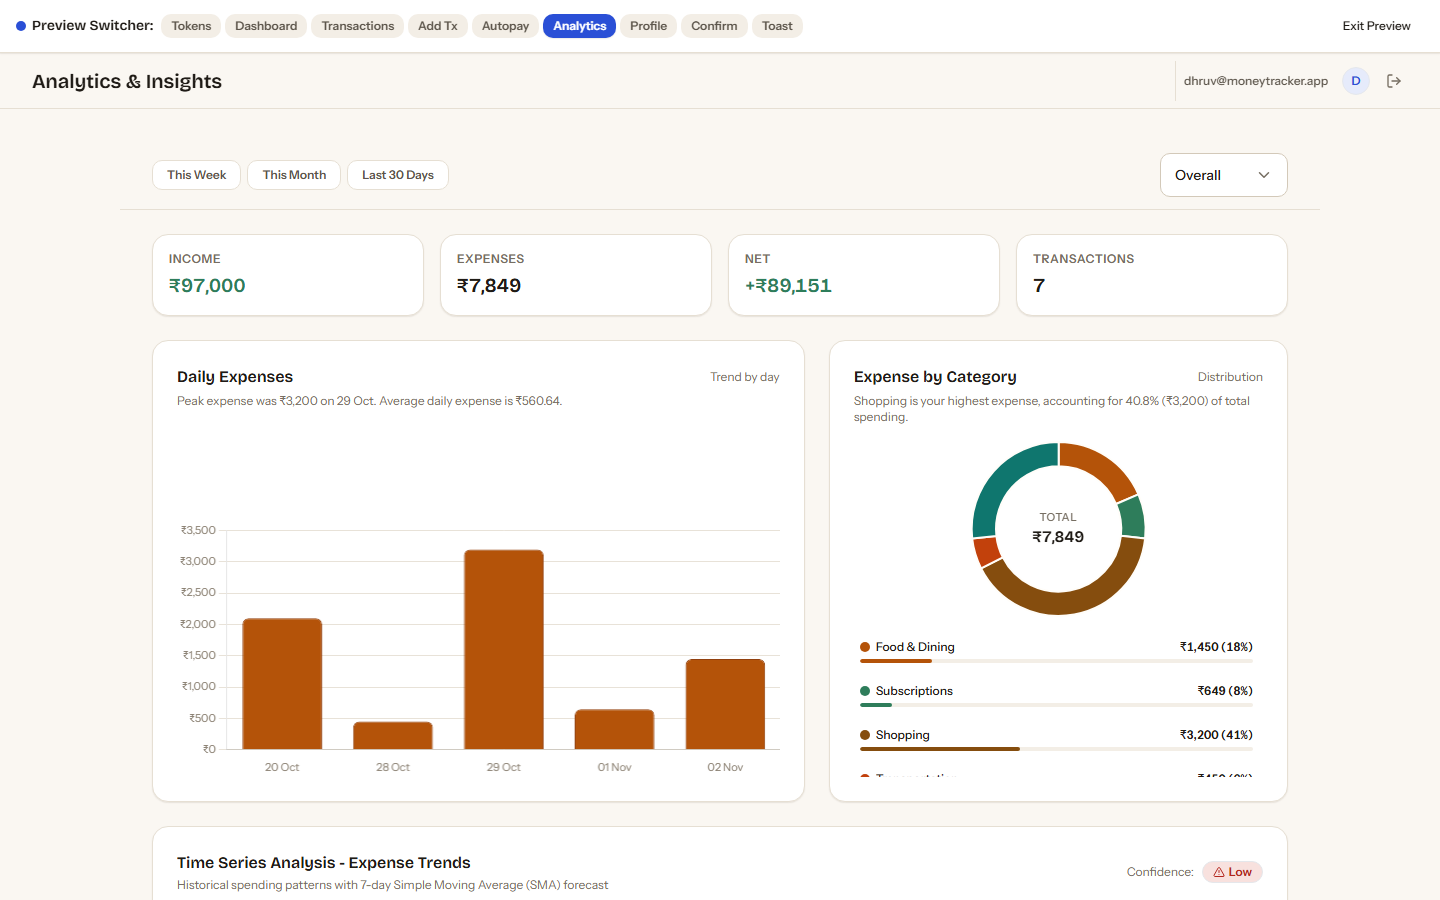
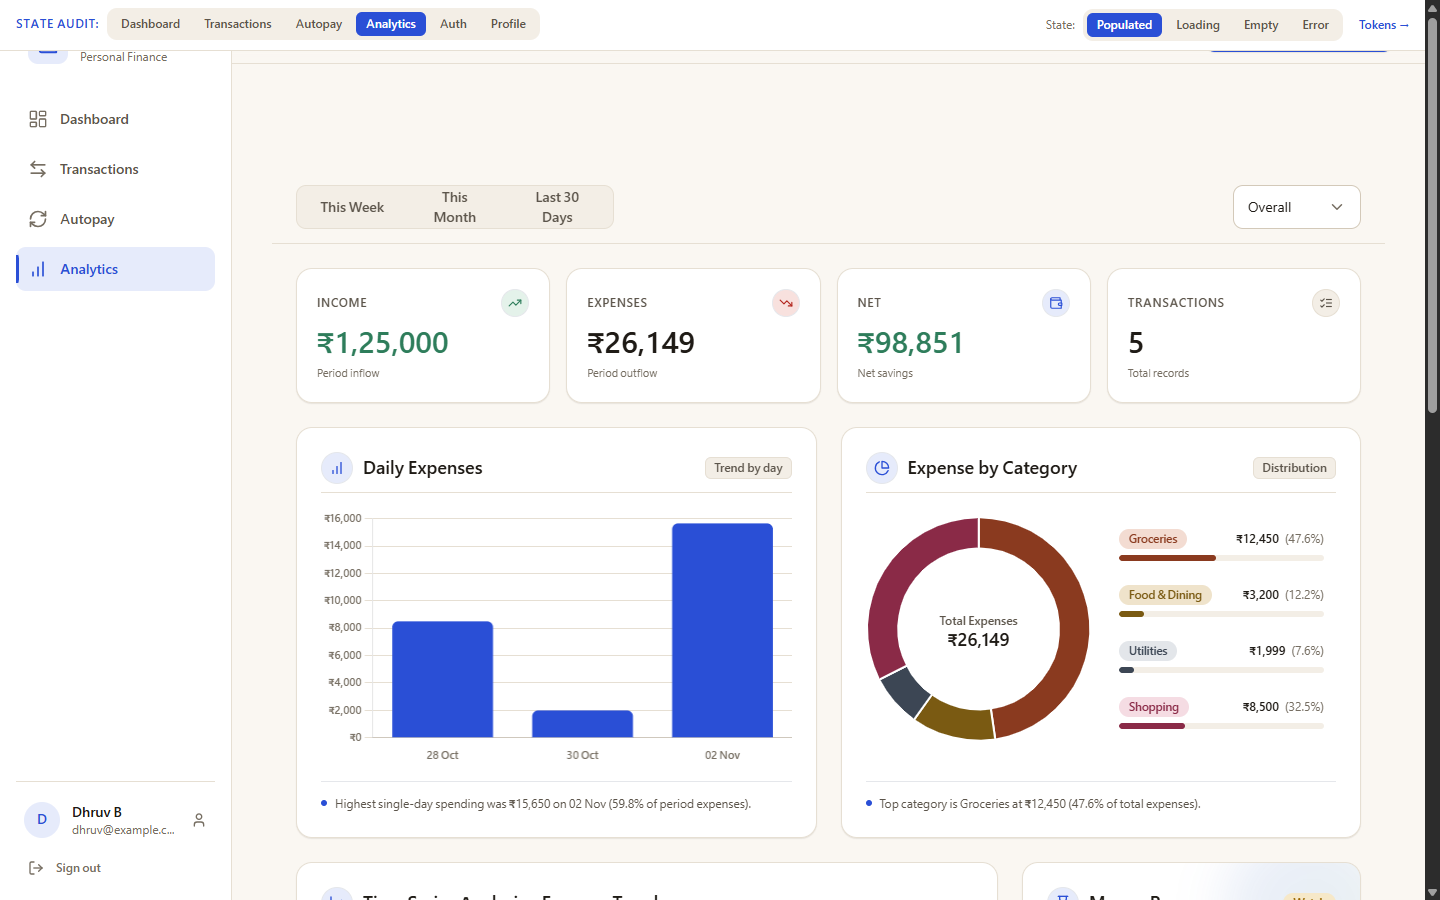
feat(analytics): elevate analytics UI with Skiper-style metric capsules, interactive chart layouts, and responsive mobile architecture

diff --git a/apps/web/src/components/analytics/AnalyticsTab.tsx b/apps/web/src/components/analytics/AnalyticsTab.tsx
@@ -41,6 +41,10 @@ import {
   AreaChartIcon,
   HourglassIcon,
   FlameIcon,
+  TrendingUpIcon,
+  TrendingDownIcon,
+  WalletIcon,
+  ListCheckIcon,
 } from '../icons';
 
 const PRESET_OPTIONS: SegmentedOption[] = [
@@ -607,37 +611,73 @@ export function AnalyticsTab() {
       ) : (
         <>
           {/* Summary Metric Cards */}
-          <div className="grid grid-cols-2 lg:grid-cols-4 gap-4" id="analyticsSummaryGrid">
-            <Card className="p-4 space-y-1">
-              <span className="text-xs font-medium text-ink-2 uppercase tracking-wide">Income</span>
-              <div id="analyticsIncome" className="text-xl sm:text-2xl font-semibold text-income tabular-nums">
-                ₹{formatIndianGrouping(summary.income)}
+          <div className="grid grid-cols-2 lg:grid-cols-4 gap-3.5 sm:gap-4" id="analyticsSummaryGrid">
+            {/* 1. Income */}
+            <Card className="p-4 sm:p-5 bg-surface border border-line rounded-card shadow-1 transition-all duration-base hover:border-line-strong hover:shadow-2 flex flex-col justify-between">
+              <div className="flex items-center justify-between mb-2">
+                <span className="text-xs font-semibold text-ink-2 uppercase tracking-wider">Income</span>
+                <div className="w-7 h-7 rounded-full bg-income-tint text-income flex items-center justify-center shrink-0 border border-income/20">
+                  <TrendingUpIcon size={14} />
+                </div>
+              </div>
+              <div>
+                <div id="analyticsIncome" className="font-display text-2xl sm:text-3xl font-semibold text-income tabular-nums">
+                  ₹{formatIndianGrouping(summary.income)}
+                </div>
+                <span className="text-[11px] text-ink-3 mt-1 block font-sans">Period inflow</span>
               </div>
             </Card>
 
-            <Card className="p-4 space-y-1">
-              <span className="text-xs font-medium text-ink-2 uppercase tracking-wide">Expenses</span>
-              <div id="analyticsExpenses" className="text-xl sm:text-2xl font-semibold text-ink tabular-nums">
-                ₹{formatIndianGrouping(summary.expenses)}
+            {/* 2. Expenses */}
+            <Card className="p-4 sm:p-5 bg-surface border border-line rounded-card shadow-1 transition-all duration-base hover:border-line-strong hover:shadow-2 flex flex-col justify-between">
+              <div className="flex items-center justify-between mb-2">
+                <span className="text-xs font-semibold text-ink-2 uppercase tracking-wider">Expenses</span>
+                <div className="w-7 h-7 rounded-full bg-danger-tint text-danger flex items-center justify-center shrink-0 border border-danger/20">
+                  <TrendingDownIcon size={14} />
+                </div>
+              </div>
+              <div>
+                <div id="analyticsExpenses" className="font-display text-2xl sm:text-3xl font-semibold text-ink tabular-nums">
+                  ₹{formatIndianGrouping(summary.expenses)}
+                </div>
+                <span className="text-[11px] text-ink-3 mt-1 block font-sans">Period outflow</span>
               </div>
             </Card>
 
-            <Card className="p-4 space-y-1">
-              <span className="text-xs font-medium text-ink-2 uppercase tracking-wide">Net</span>
-              <div
-                id="analyticsNet"
-                className={`text-xl sm:text-2xl font-semibold tabular-nums ${
-                  summary.net >= 0 ? 'text-income' : 'text-danger'
-                }`}
-              >
-                ₹{formatIndianGrouping(summary.net)}
+            {/* 3. Net */}
+            <Card className="p-4 sm:p-5 bg-surface border border-line rounded-card shadow-1 transition-all duration-base hover:border-line-strong hover:shadow-2 flex flex-col justify-between">
+              <div className="flex items-center justify-between mb-2">
+                <span className="text-xs font-semibold text-ink-2 uppercase tracking-wider">Net</span>
+                <div className="w-7 h-7 rounded-full bg-accent-tint text-accent flex items-center justify-center shrink-0 border border-accent/20">
+                  <WalletIcon size={14} />
+                </div>
+              </div>
+              <div>
+                <div
+                  id="analyticsNet"
+                  className={`font-display text-2xl sm:text-3xl font-semibold tabular-nums ${
+                    summary.net >= 0 ? 'text-income' : 'text-danger'
+                  }`}
+                >
+                  ₹{formatIndianGrouping(summary.net)}
+                </div>
+                <span className="text-[11px] text-ink-3 mt-1 block font-sans">Net savings</span>
               </div>
             </Card>
 
-            <Card className="p-4 space-y-1">
-              <span className="text-xs font-medium text-ink-2 uppercase tracking-wide">Transactions</span>
-              <div id="analyticsCount" className="text-xl sm:text-2xl font-semibold text-ink tabular-nums">
-                {summary.count}
+            {/* 4. Transactions */}
+            <Card className="p-4 sm:p-5 bg-surface border border-line rounded-card shadow-1 transition-all duration-base hover:border-line-strong hover:shadow-2 flex flex-col justify-between">
+              <div className="flex items-center justify-between mb-2">
+                <span className="text-xs font-semibold text-ink-2 uppercase tracking-wider">Transactions</span>
+                <div className="w-7 h-7 rounded-full bg-surface-2 text-ink-2 flex items-center justify-center shrink-0 border border-line">
+                  <ListCheckIcon size={14} />
+                </div>
+              </div>
+              <div>
+                <div id="analyticsCount" className="font-display text-2xl sm:text-3xl font-semibold text-ink tabular-nums">
+                  {summary.count}
+                </div>
+                <span className="text-[11px] text-ink-3 mt-1 block font-sans">Total records</span>
               </div>
             </Card>
           </div>
@@ -645,13 +685,18 @@ export function AnalyticsTab() {
           {/* Grid: Daily Expenses & Category Doughnut */}
           <div className="grid grid-cols-1 lg:grid-cols-2 gap-6">
             {/* 4. Daily Expenses Card */}
-            <Card className="p-5 flex flex-col justify-between">
+            <Card className="p-5 sm:p-6 bg-surface border border-line rounded-card shadow-1 transition-all duration-base hover:border-line-strong hover:shadow-2 flex flex-col justify-between">
               <div>
-                <div className="flex items-center gap-2 mb-4">
-                  <span className="text-accent">
-                    <BarChartIcon size={20} />
+                <div className="flex items-center justify-between gap-2 mb-4 pb-2 border-b border-line">
+                  <div className="flex items-center gap-2.5">
+                    <div className="w-8 h-8 rounded-full bg-accent-tint text-accent flex items-center justify-center shrink-0 border border-accent/20">
+                      <BarChartIcon size={16} />
+                    </div>
+                    <h3 className="font-display font-semibold text-ink text-base sm:text-lg">Daily Expenses</h3>
+                  </div>
+                  <span className="px-2 py-0.5 rounded-chip text-xs font-medium bg-surface-2 text-ink-2 border border-line">
+                    Trend by day
                   </span>
-                  <h3 className="font-sans font-semibold text-ink text-base">Daily Expenses</h3>
                 </div>
 
                 {dailyData.labels.length === 0 ? (
@@ -688,19 +733,25 @@ export function AnalyticsTab() {
               </div>
 
               {/* 1 sentence underneath */}
-              <p className="mt-4 pt-3 border-t border-line text-xs text-ink-2 font-sans leading-relaxed">
-                {getDailyExpensesInsight(dailyData)}
-              </p>
+              <div className="mt-4 pt-3 border-t border-line/70 flex items-start gap-2 text-xs text-ink-2 font-sans leading-relaxed">
+                <span className="w-1.5 h-1.5 rounded-full bg-accent shrink-0 mt-1.5" />
+                <p>{getDailyExpensesInsight(dailyData)}</p>
+              </div>
             </Card>
 
             {/* 5. Category Doughnut Card with Linked Legend */}
-            <Card className="p-5 flex flex-col justify-between">
+            <Card className="p-5 sm:p-6 bg-surface border border-line rounded-card shadow-1 transition-all duration-base hover:border-line-strong hover:shadow-2 flex flex-col justify-between">
               <div>
-                <div className="flex items-center gap-2 mb-4">
-                  <span className="text-accent">
-                    <PieChartIcon size={20} />
+                <div className="flex items-center justify-between gap-2 mb-4 pb-2 border-b border-line">
+                  <div className="flex items-center gap-2.5">
+                    <div className="w-8 h-8 rounded-full bg-accent-tint text-accent flex items-center justify-center shrink-0 border border-accent/20">
+                      <PieChartIcon size={16} />
+                    </div>
+                    <h3 className="font-display font-semibold text-ink text-base sm:text-lg">Expense by Category</h3>
+                  </div>
+                  <span className="px-2 py-0.5 rounded-chip text-xs font-medium bg-surface-2 text-ink-2 border border-line">
+                    Distribution
                   </span>
-                  <h3 className="font-sans font-semibold text-ink text-base">Expense by Category</h3>
                 </div>
 
                 {categoryData.labels.length === 0 ? (
@@ -815,23 +866,24 @@ export function AnalyticsTab() {
               </div>
 
               {/* 1 sentence underneath */}
-              <p className="mt-4 pt-3 border-t border-line text-xs text-ink-2 font-sans leading-relaxed">
-                {getCategoryExpensesInsight(categoryData)}
-              </p>
+              <div className="mt-4 pt-3 border-t border-line/70 flex items-start gap-2 text-xs text-ink-2 font-sans leading-relaxed">
+                <span className="w-1.5 h-1.5 rounded-full bg-accent shrink-0 mt-1.5" />
+                <p>{getCategoryExpensesInsight(categoryData)}</p>
+              </div>
             </Card>
           </div>
 
           {/* Grid: 6. Forecast & 7. Money Runway */}
           <div className="grid grid-cols-1 lg:grid-cols-3 gap-6">
             {/* 6. Forecast Card */}
-            <Card className="lg:col-span-2 p-5 flex flex-col justify-between">
+            <Card className="lg:col-span-2 p-5 sm:p-6 bg-surface border border-line rounded-card shadow-1 transition-all duration-base hover:border-line-strong hover:shadow-2 flex flex-col justify-between">
               <div>
-                <div className="flex items-center justify-between flex-wrap gap-2 mb-4">
-                  <div className="flex items-center gap-2">
-                    <span className="text-accent">
-                      <AreaChartIcon size={20} />
-                    </span>
-                    <h3 className="font-sans font-semibold text-ink text-base">
+                <div className="flex items-center justify-between flex-wrap gap-2 mb-4 pb-2 border-b border-line">
+                  <div className="flex items-center gap-2.5">
+                    <div className="w-8 h-8 rounded-full bg-accent-tint text-accent flex items-center justify-center shrink-0 border border-accent/20">
+                      <AreaChartIcon size={16} />
+                    </div>
+                    <h3 className="font-display font-semibold text-ink text-base sm:text-lg">
                       Time Series Analysis - Expense Trends
                     </h3>
                   </div>
@@ -845,6 +897,7 @@ export function AnalyticsTab() {
                             ? 'warning'
                             : 'danger'
                       }
+                      className="text-xs"
                     >
                       Confidence: {forecast.confidence.toUpperCase()}
                     </Badge>
@@ -895,7 +948,7 @@ export function AnalyticsTab() {
                     {/* Stats Box */}
                     <div
                       id="timeSeriesStats"
-                      className="grid grid-cols-2 sm:grid-cols-4 gap-3 p-3 bg-surface-2 rounded-btn text-xs font-sans"
+                      className="grid grid-cols-2 sm:grid-cols-4 gap-3 p-3.5 bg-surface-2/70 border border-line/60 rounded-btn text-xs font-sans"
                     >
                       <div>
                         <span className="text-ink-3 block">Total Period</span>
@@ -923,20 +976,27 @@ export function AnalyticsTab() {
               </div>
 
               {/* 1 sentence underneath */}
-              <p className="mt-4 pt-3 border-t border-line text-xs text-ink-2 font-sans leading-relaxed">
-                {getForecastInsight(forecast)}
-              </p>
+              <div className="mt-4 pt-3 border-t border-line/70 flex items-start gap-2 text-xs text-ink-2 font-sans leading-relaxed">
+                <span className="w-1.5 h-1.5 rounded-full bg-accent shrink-0 mt-1.5" />
+                <p>{getForecastInsight(forecast)}</p>
+              </div>
             </Card>
 
             {/* 7. Money Runway Card */}
-            <Card className="p-5 flex flex-col justify-between">
-              <div>
-                <div className="flex items-center justify-between gap-2 mb-4">
-                  <div className="flex items-center gap-2">
-                    <span className="text-accent">
-                      <HourglassIcon size={20} />
-                    </span>
-                    <h3 className="font-sans font-semibold text-ink text-base">Money Runway</h3>
+            <Card className="relative overflow-hidden p-5 sm:p-6 bg-surface border border-line rounded-card shadow-1 transition-all duration-base hover:border-line-strong hover:shadow-2 flex flex-col justify-between">
+              {/* Decorative subtle aura background overlay */}
+              <div
+                className="absolute -top-10 -right-10 w-44 h-44 rounded-full pointer-events-none select-none opacity-10 bg-gradient-to-br from-accent to-income blur-xl"
+                aria-hidden="true"
+              />
+
+              <div className="relative z-10">
+                <div className="flex items-center justify-between gap-2 mb-4 pb-2 border-b border-line">
+                  <div className="flex items-center gap-2.5">
+                    <div className="w-8 h-8 rounded-full bg-accent-tint text-accent flex items-center justify-center shrink-0 border border-accent/20">
+                      <HourglassIcon size={16} />
+                    </div>
+                    <h3 className="font-display font-semibold text-ink text-base sm:text-lg">Money Runway</h3>
                   </div>
                   <Badge
                     variant={
@@ -948,6 +1008,7 @@ export function AnalyticsTab() {
                             ? 'warning'
                             : 'income'
                     }
+                    className="text-xs"
                   >
                     {runway.daysRemaining === Infinity
                       ? 'Sustainable'
@@ -960,10 +1021,10 @@ export function AnalyticsTab() {
                 </div>
 
                 {/* Days remaining large figure */}
-                <div className="my-6">
+                <div className="my-5">
                   <div className="flex items-baseline gap-2">
                     <span
-                      className={`font-display text-4xl sm:text-5xl font-semibold tabular-nums ${
+                      className={`font-display text-4xl sm:text-5xl font-semibold tabular-nums tracking-tight ${
                         runway.daysRemaining <= 7
                           ? 'text-danger'
                           : runway.daysRemaining <= 30
@@ -980,7 +1041,7 @@ export function AnalyticsTab() {
                 </div>
 
                 {/* Metrics list */}
-                <div className="space-y-3 pt-2 border-t border-line text-xs font-sans">
+                <div className="space-y-3 pt-3 border-t border-line text-xs font-sans">
                   <div className="flex items-center justify-between">
                     <span className="text-ink-2">Estimated Depletion</span>
                     <span className="font-semibold text-ink tabular-nums">
@@ -1033,22 +1094,25 @@ export function AnalyticsTab() {
               </div>
 
               {/* 1 sentence underneath */}
-              <p className="mt-4 pt-3 border-t border-line text-xs text-ink-2 font-sans leading-relaxed">
-                {getRunwayInsight(runway)}
-              </p>
+              <div className="relative z-10 mt-4 pt-3 border-t border-line/70 flex items-start gap-2 text-xs text-ink-2 font-sans leading-relaxed">
+                <span className="w-1.5 h-1.5 rounded-full bg-accent shrink-0 mt-1.5" />
+                <p>{getRunwayInsight(runway)}</p>
+              </div>
             </Card>
           </div>
 
           {/* 8. Weekday Heatmap Card */}
-          <Card className="p-5 flex flex-col justify-between">
+          <Card className="p-5 sm:p-6 bg-surface border border-line rounded-card shadow-1 transition-all duration-base hover:border-line-strong hover:shadow-2 flex flex-col justify-between">
             <div>
-              <div className="flex items-center gap-2 mb-4">
-                <span className="text-accent">
-                  <FlameIcon size={20} />
-                </span>
-                <h3 className="font-sans font-semibold text-ink text-base">
-                  Spending Heatmap - Day of Week Analysis
-                </h3>
+              <div className="flex items-center justify-between gap-2 mb-4 pb-2 border-b border-line">
+                <div className="flex items-center gap-2.5">
+                  <div className="w-8 h-8 rounded-full bg-accent-tint text-accent flex items-center justify-center shrink-0 border border-accent/20">
+                    <FlameIcon size={16} />
+                  </div>
+                  <h3 className="font-display font-semibold text-ink text-base sm:text-lg">
+                    Spending Heatmap - Day of Week Analysis
+                  </h3>
+                </div>
               </div>
 
               {dayOfWeekData.isEmpty ? (
@@ -1090,7 +1154,7 @@ export function AnalyticsTab() {
                   {/* Quick stats box */}
                   <div
                     id="dayOfWeekStats"
-                    className="grid grid-cols-2 sm:grid-cols-4 gap-3 p-3 bg-surface-2 rounded-btn text-xs font-sans mb-3"
+                    className="grid grid-cols-2 sm:grid-cols-4 gap-3 p-3.5 bg-surface-2/70 border border-line/60 rounded-btn text-xs font-sans mb-3"
                   >
                     <div>
                       <span className="text-ink-3 block">Highest Day</span>
@@ -1122,9 +1186,10 @@ export function AnalyticsTab() {
             </div>
 
             {/* 1 sentence underneath (existing insight sentence) */}
-            <p className="mt-3 pt-3 border-t border-line text-xs text-ink-2 font-sans leading-relaxed">
-              {getWeekdayExpensesInsight(dayOfWeekData)}
-            </p>
+            <div className="mt-3 pt-3 border-t border-line/70 flex items-start gap-2 text-xs text-ink-2 font-sans leading-relaxed">
+              <span className="w-1.5 h-1.5 rounded-full bg-accent shrink-0 mt-1.5" />
+              <p>{getWeekdayExpensesInsight(dayOfWeekData)}</p>
+            </div>
           </Card>
         </>
       )}
